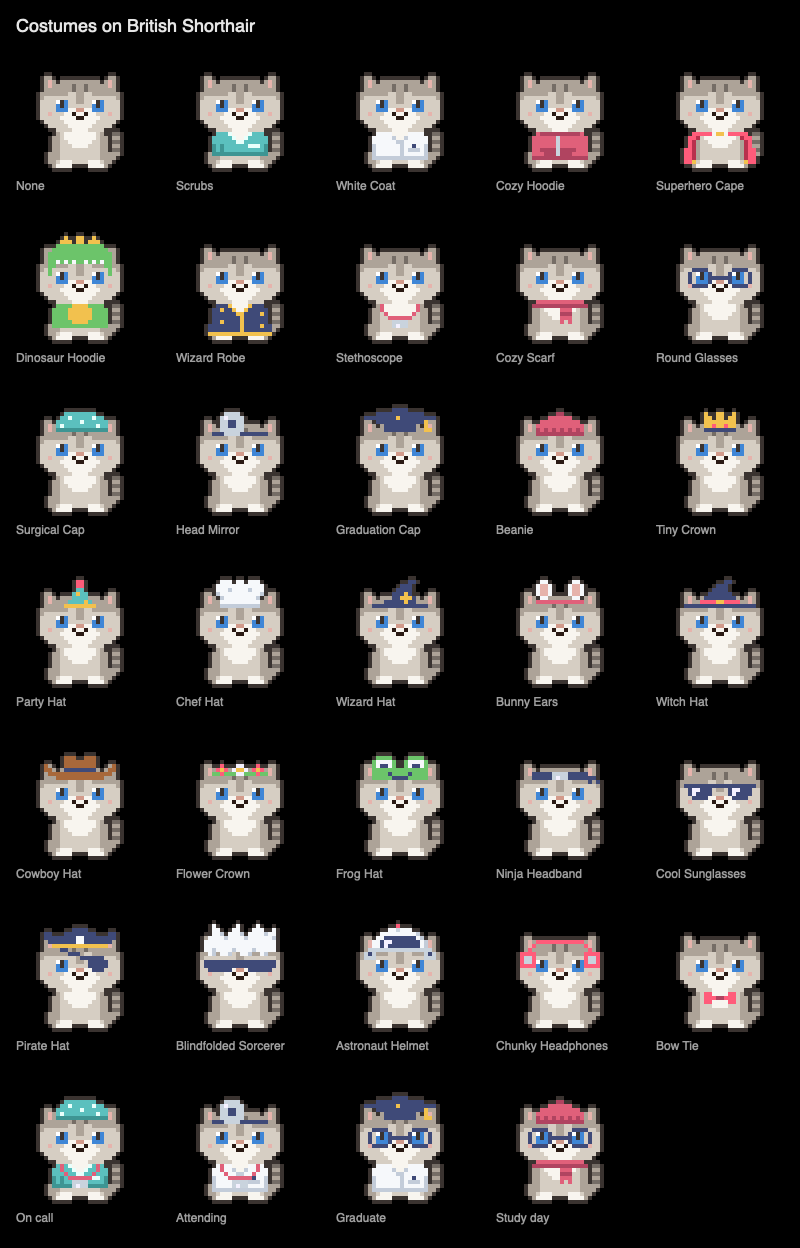
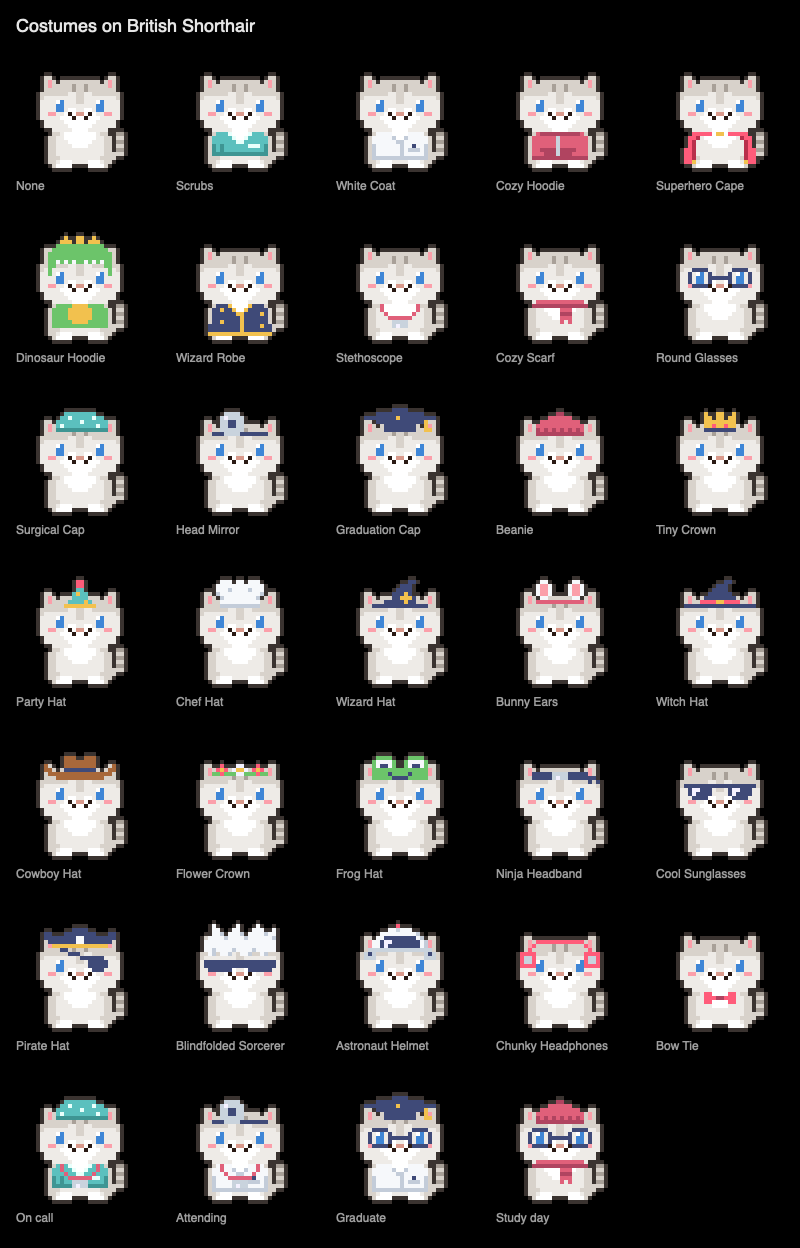
feat(pets): The British Shorthair now sits plumper and rounder: a sitting body one column wider and centered under its head, fuller lower cheeks, and the tail moved out a column so tail swish still bends it cleanly.

diff --git a/Sources/TabbiKitCore/Pets/Art/CatArt.swift b/Sources/TabbiKitCore/Pets/Art/CatArt.swift
@@ -37,8 +37,8 @@ enum CatArt {
         BBBBBBmmmmmmmmBBBBBB
         BBBBBmmmmmmmmmmBBBBB
         .BBBBBmmmmmmmmBBBBB.
-        ..BBBBBmmmmmmBBBBB..
-        ....BBBBmmmmBBBB....
+        .BBBBBBmmmmmmBBBBBB.
+        ...BBBBBmmmmBBBBB...
         """)
 
     /// British Shorthair face: the shared cat eyes (2x3, a highlight in the
@@ -94,21 +94,22 @@ enum CatArt {
         ....pppp....pppp....
         """)
 
-    /// British Shorthair sitting body, the same 20x11 frame as `bodySit` so
-    /// every costume fits: taupe flanks with faint ticking, full haunches,
-    /// a white chest and paws, and a thick tail ringed with dark bands.
+    /// British Shorthair sitting body: the `bodySit` frame (so every costume
+    /// fits) widened a column to the right for a plump, round belly that sits
+    /// centered under the head, with faint ticking on the flanks, a white
+    /// chest and paws, and a thick ringed tail split off at column 18.
     static let bodyRound = SpriteGrid(art: """
-        .....SBBBBBBBBS.....
-        ....SBBccccccBBS....
-        ....SBccccccccBS..tt
-        ...SSBccccccccBSS.SS
-        ...SsBBccccccBBsS.tt
-        ...SSBBBccccBBBSS.SS
-        ...SsBBBBBBBBBBsS.tt
-        ..SSSBBBBBBBBBBSSSSS
-        ..SsSBBBBBBBBBBSsSS.
-        ..SSBpppBBBBpppBSS..
-        ...Spppp....ppppS...
+        .....SBBBBBBBBS......
+        ....SBBccccccBBS.....
+        ...SSBccccccccBSS..tt
+        ..SSBBccccccccBBSS.SS
+        ..SsBBBccccccBBBsS.tt
+        ..SSBBBBccccBBBBSS.SS
+        ..SsBBBBBBBBBBBBsS.tt
+        ..SSBBBBBBBBBBBBSSSSS
+        ..SSsBBBBBBBBBBsSSS..
+        ..SSBpppBBBBpppBSS...
+        ...Spppp....ppppS....
         """)
 
     /// Sphynx: big bat-like ears flaring out from a narrow crown, forehead

diff --git a/Tests/TabbiKitCoreTests/PetsProfileTests.swift b/Tests/TabbiKitCoreTests/PetsProfileTests.swift
@@ -112,6 +112,22 @@ final class PetProfileTests: XCTestCase {
         XCTAssertNotEqual(palette[.furBase], PetBreed.whiteCat.palette[.furBase], "still not the white cat")
     }
 
+    func testTheBritishShorthairSitsPlumpAndCenteredUnderItsHead() {
+        // The first solid run across the belly, outline included: the
+        // British Shorthair's is wider than a plain cat's but shares its
+        // center, so the body sits square under the head and costumes.
+        func belly(_ canvas: PetCanvas) -> ClosedRange<Int> {
+            let y = 25
+            let start = (0..<canvas.width).first { canvas[$0, y] != nil }!
+            let end = (start..<canvas.width).first { canvas[$0, y] == nil }! - 1
+            return start...end
+        }
+        let plump = belly(PetComposer.sitting(.britishShorthair))
+        let plain = belly(PetComposer.sitting(.orangeTabby))
+        XCTAssertGreaterThanOrEqual(plump.count, plain.count + 2)
+        XCTAssertEqual(plump.lowerBound + plump.upperBound, plain.lowerBound + plain.upperBound)
+    }
+
     func testStarterMatchesTheChosenSpecies() {
         for species in PetSpecies.allCases {
             let starter = PetProfile.starter(species)

diff --git a/Sources/TabbiKitCore/Pets/PetComposer.swift b/Sources/TabbiKitCore/Pets/PetComposer.swift
@@ -402,7 +402,8 @@ public enum PetComposer {
             switch shape {
             case .cat, .roundCat, .sphynxCat:
                 family = .cat
-                (bodyX, bodyY, tail, tailColumn) = (6, 20, nil, 17)
+                // The British Shorthair's plump body is a column wider, so its tail starts one later.
+                (bodyX, bodyY, tail, tailColumn) = (6, 20, nil, shape == .roundCat ? 18 : 17)
                 (body, head, face) = switch shape {
                 case .roundCat: (CatArt.bodyRound, CatArt.headRound, CatArt.faceRound)
                 case .sphynxCat: (CatArt.bodySphynx, CatArt.headSphynx, CatArt.faceSphynx)

diff --git a/docs/study/pets.md b/docs/study/pets.md
@@ -198,7 +198,7 @@ The waving arm grows from the left shoulder (3 px in and 4 px down the body) and
 The grooming leg rises straight from just above the floor to the mouth, found like an open mouth, so it lines up on every head.
 
 A swinging tail is bent from its base by `TailArt`, so every breed keeps its own tail (the Sphynx's whip, the British Shorthair's rings, the Poodle's pom, the Shih Tzu's plume).
-Dogs draw the tail as its own grid; cats and the dachshund draw it into the sitting body, so the composer cuts it out at the body's tail column first (`SitLayout.tailColumn`: 17 for cats, 23 for the dachshund).
+Dogs draw the tail as its own grid; cats and the dachshund draw it into the sitting body, so the composer cuts it out at the body's tail column first (`SitLayout.tailColumn`: 17 for cats, 18 for the British Shorthair, whose plump body is a column wider, and 23 for the dachshund).
 The base row stays put and each row above leans a little further, never more than a pixel past the row below, so the tail stays one connected stroke.
 The swing is cut down to the room left in the frame, which keeps the dachshund's tail, near the right edge, to a 1 px flick.
 The corgi and French bulldog have no tail, so `TailArt.nub` pops out past the haunch and bobs instead.
